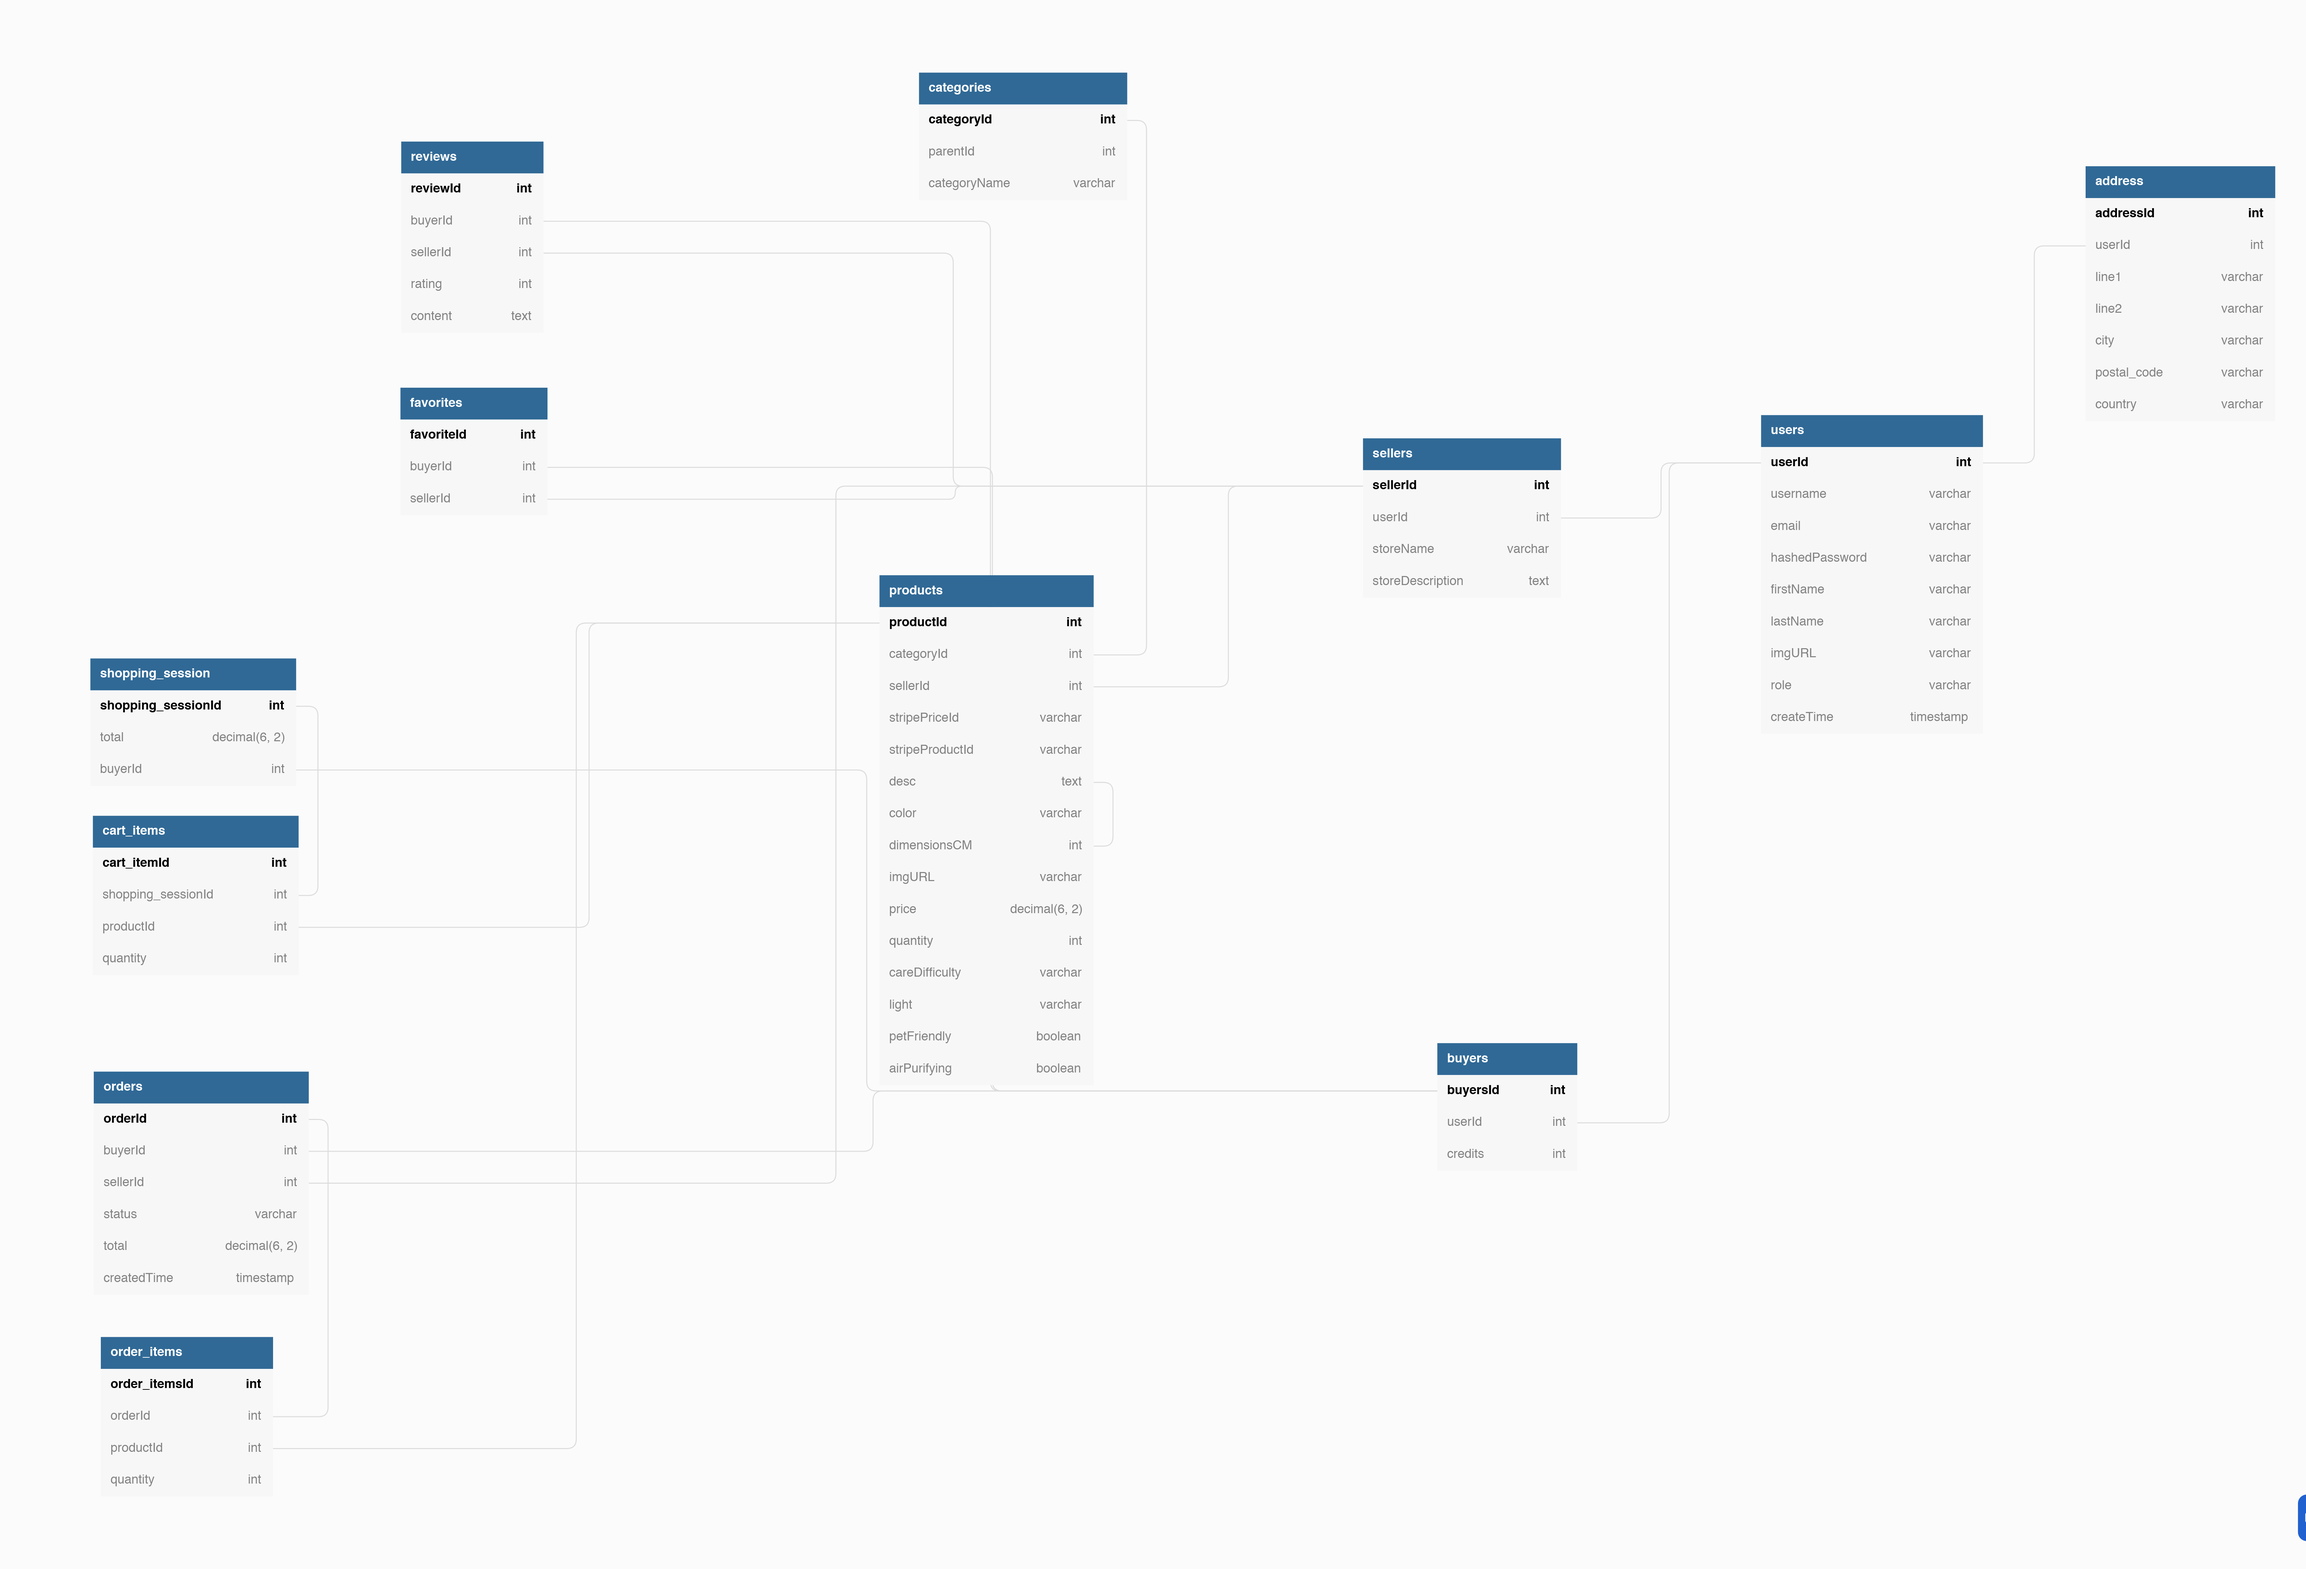
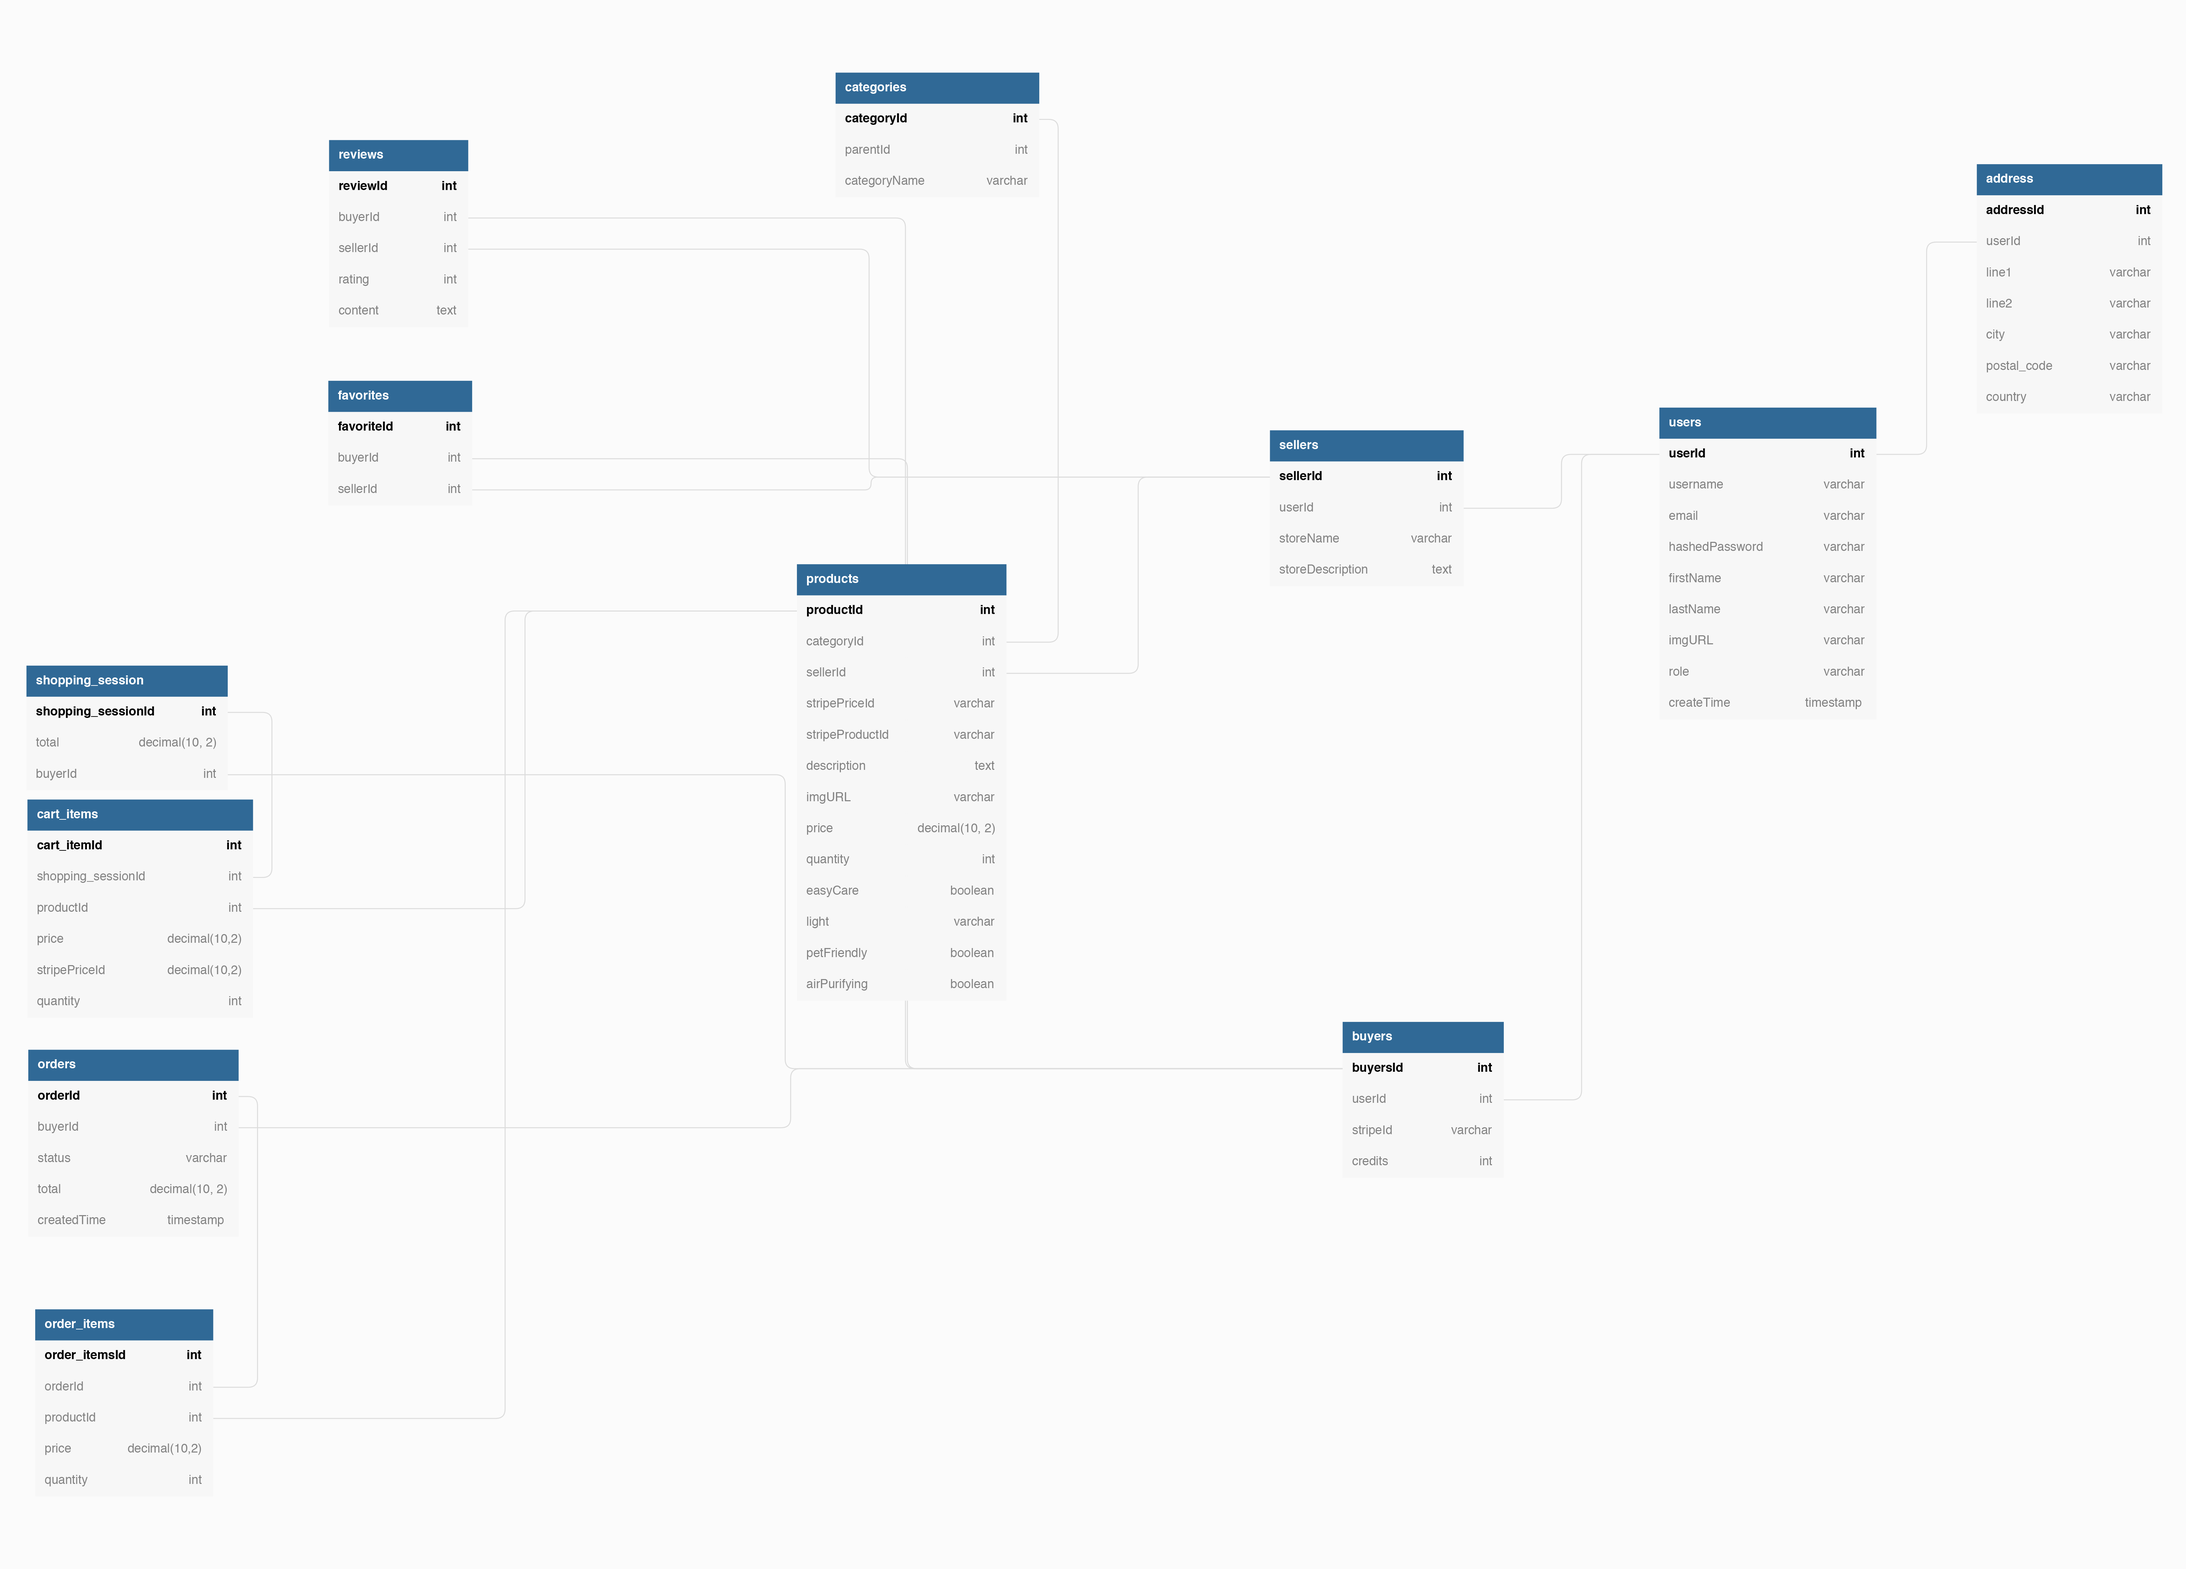
read me update and search bar

diff --git a/client/src/components/Navbar/Searchbar.js b/client/src/components/Navbar/Searchbar.js
@@ -23,12 +23,16 @@ const handleChange =(event) => {
     
     //console.log(value)
     
-    
 }
 
-const handleSearch = (event, item) =>{
+const handleValue = (event, item)=>{
     event.preventDefault();
     setInputProductName(item)
+}
+
+
+const handleSearch = (event) =>{
+    event.preventDefault();
     changeSearchQuery(inputProductName)
     
 }
@@ -69,7 +73,7 @@ const handleSearch = (event, item) =>{
             )
         }
         ).map((item =>
-            ( <div key={item.productId} onClick={(e) => {handleSearch(e, item.productName) }}>
+            ( <div key={item.productId} onClick={(e) => {handleValue(e, item.productName) }}>
                 {item.productName}
             </div>
         )

diff --git a/client/src/components/Navbar/Navbar.css b/client/src/components/Navbar/Navbar.css
@@ -17,6 +17,7 @@ nav a:hover {
 	border-radius: 3px;
 	width: 520px;
 	text-align: start;
+	cursor: pointer;
   }
   
   .searchBar:empty {

diff --git a/README.md b/README.md
@@ -2,9 +2,8 @@
 
 # Project Description
 
-FLORA ia an e-commerce website with multiple vendors, where users are able to sell and buy plants. Buyers can register, search, add products to their cart and purchase plants while sellers may add products to their catalog and manage their profile.
+FLORA ia an e-commerce website with multiple vendors feature stripe integration, where users are able to sell and buy plants. Buyers can register, search, add products to their cart and purchase plants while sellers may add products to their catalog and manage their profile.
 
-![Flora]()
 
 ## Project Setup 
 
@@ -47,9 +46,25 @@ FLORA ia an e-commerce website with multiple vendors, where users are able to se
 _Resourses : https://stripe.com/docs/financial-services_
 _https://stripe.com/docs/api_
 
+## Technologies and dependencies
+
+# Frontend
+- React
+- Bootstrap
+_ React tostify
+
+# Backend
+- Express.js
+- Node.js
+- Sequelize
+- Bcrypt
+- JWT
+- Multer
+
 # Database Schema
 
 ![DB Schema](image/FloraDataBase.png)
+_Resourses : https://dbdiagram.io/d/62a44bd29921fe2a96e2de5a_
 
 ## User Flow
 
